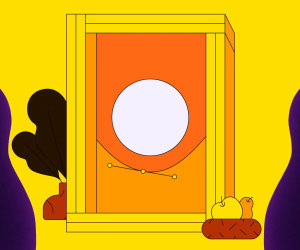
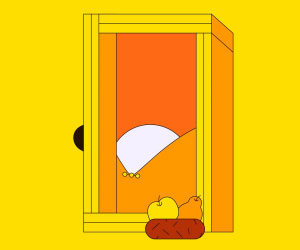
update per feedback;
update per feedback;

diff --git a/FY20Q4_NoOffer_US_Community_AN/FY20Q4_NoOffer_US_Community_AN_300x250/index.html b/FY20Q4_NoOffer_US_Community_AN/FY20Q4_NoOffer_US_Community_AN_300x250/index.html
@@ -325,17 +325,9 @@
           .to(slide1, .5, { opacity: '1', ease: Sine.easeOut }, '+=0')
           //reveal frame 1
           .to(frame1, 0, { opacity: '1' }, '+=0.5')
-          //reveal frame 1 slide 2
-          .to(slide2, .5, { opacity: '1' }, '+=0')
-          //reveal frame 1 slide 3
-          .to(slide3, .5, { opacity: '1' }, '+=.5')
-          //reveal frame 1 slide 4
-          .to(slide4, .5, { opacity: '1' }, '+=.5')
-          //reveal frame 1 slide 5
-          .to(slide5, .5, { opacity: '1' }, '+=.5')
           // reveal dotted frame
-          .to(element2, 0, { css:{scale: 0} }, '-=0.5')
-          .to(element2, .5, { css:{opacity:1, scale: 1}, ease: Sine.easeIn }, '-=0.4')
+          .to(element2, 0, { css:{scale: 0} }, '+=4.25')
+          .to(element2, .5, { css:{opacity:1, scale: 1}, ease: Sine.easeIn }, '-=0')
           .to(element3b, 0, { opacity:1 }, '+=0.1')
           // reveal text
           .to(element3, 0.8, { css:{width: '300px'}, ease: Sine.easeIn }, '-=0.1')
@@ -402,11 +394,7 @@
       <img src="./images/F0.jpg" alt="">
 
       <div class="frame frame--0 js-frame-0">
-        <img src="./images/F1.jpg" class="frame__slide js-frame-slide-1" alt="">
-        <img src="./images/F2.jpg" class="frame__slide js-frame-slide-2" alt="">
-        <img src="./images/F3.jpg" class="frame__slide js-frame-slide-3" alt="">
-        <img src="./images/F4.jpg" class="frame__slide js-frame-slide-4" alt="">
-        <img src="./images/F5.jpg" class="frame__slide js-frame-slide-5" alt="">
+        <img src="./images/F0.gif" class="frame__slide js-frame-slide-1" alt="">
       </div> 
       <div class="frame frame--1 js-frame-1">
         <img src="./images/F1_bg_mask.png" class="frame__slide js-element-1" alt="">
